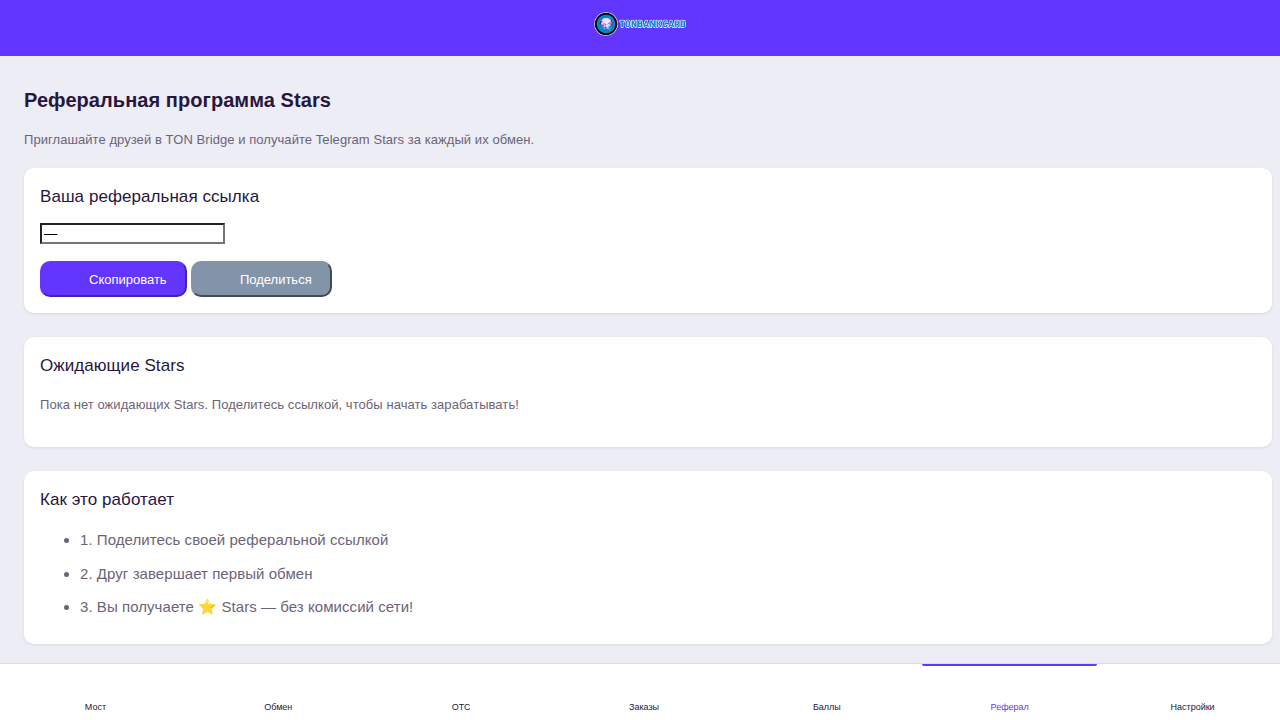
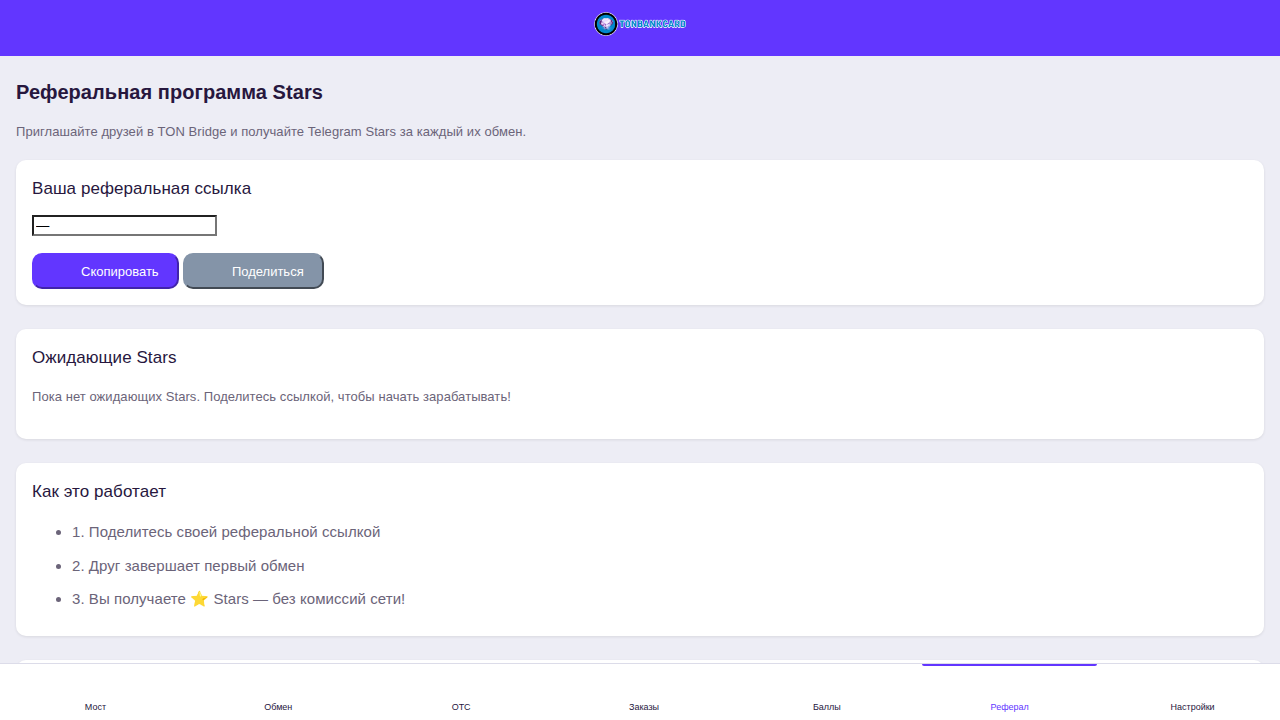
Исправить отступы страниц referral program

diff --git a/tests/layout-regression.spec.js b/tests/layout-regression.spec.js
@@ -1,7 +1,7 @@
 import { test, expect } from '@playwright/test';
 import { fileURLToPath } from 'url';
 import { resolve, dirname } from 'path';
-import { existsSync } from 'fs';
+import { existsSync, readFileSync } from 'fs';
 
 const __dirname = dirname(fileURLToPath(import.meta.url));
 
@@ -15,6 +15,13 @@ function distPath(file) {
 
 async function waitForDistFile(file) {
   await expect.poll(() => existsSync(distPath(file)), { timeout: 30000 }).toBe(true);
+}
+
+async function waitForDistStyleReset() {
+  await expect.poll(() => {
+    const cssFile = distPath('assets/css/style.css');
+    return existsSync(cssFile) && readFileSync(cssFile, 'utf8').includes('overflow-x:hidden;margin:0');
+  }, { timeout: 30000 }).toBe(true);
 }
 
 async function seedStoredConsent(page) {
@@ -101,6 +108,26 @@ async function mockTelegramWebApp(page, options = {}) {
 }
 
 test.describe('Layout regressions', () => {
+  test('static app shells reset browser body margin consistently', async ({ page }) => {
+    await mockTelegramWebApp(page);
+    await waitForDistStyleReset();
+    await page.route('https://bridge-worker.tonbankcard.workers.dev/api/referral*', route => route.fulfill({
+      status: 200,
+      contentType: 'application/json',
+      body: JSON.stringify({ ref_code: 'ABC123', pending_stars: 0, stars_disabled: false }),
+    }));
+
+    for (const file of ['redeem.html', 'referral.html', 'program.html']) {
+      await waitForDistFile(file);
+      await page.goto(distUrl(file));
+
+      await expect.poll(
+        () => page.evaluate(() => getComputedStyle(document.body).margin),
+        { message: `${file} should not keep the browser default body margin` },
+      ).toBe('0px');
+    }
+  });
+
   test('left sidebar does not expose hidden offcanvas panels', async ({ page }) => {
     await mockTelegramWebApp(page);
     await seedStoredConsent(page);

diff --git a/assets/sass/_body.scss b/assets/sass/_body.scss
@@ -9,6 +9,7 @@ body{
   width: 100%;
   height: 100%;
   overflow-x: hidden;
+  margin: 0;
   -webkit-font-smoothing: antialiased;
   -moz-osx-font-smoothing: grayscale;
 }